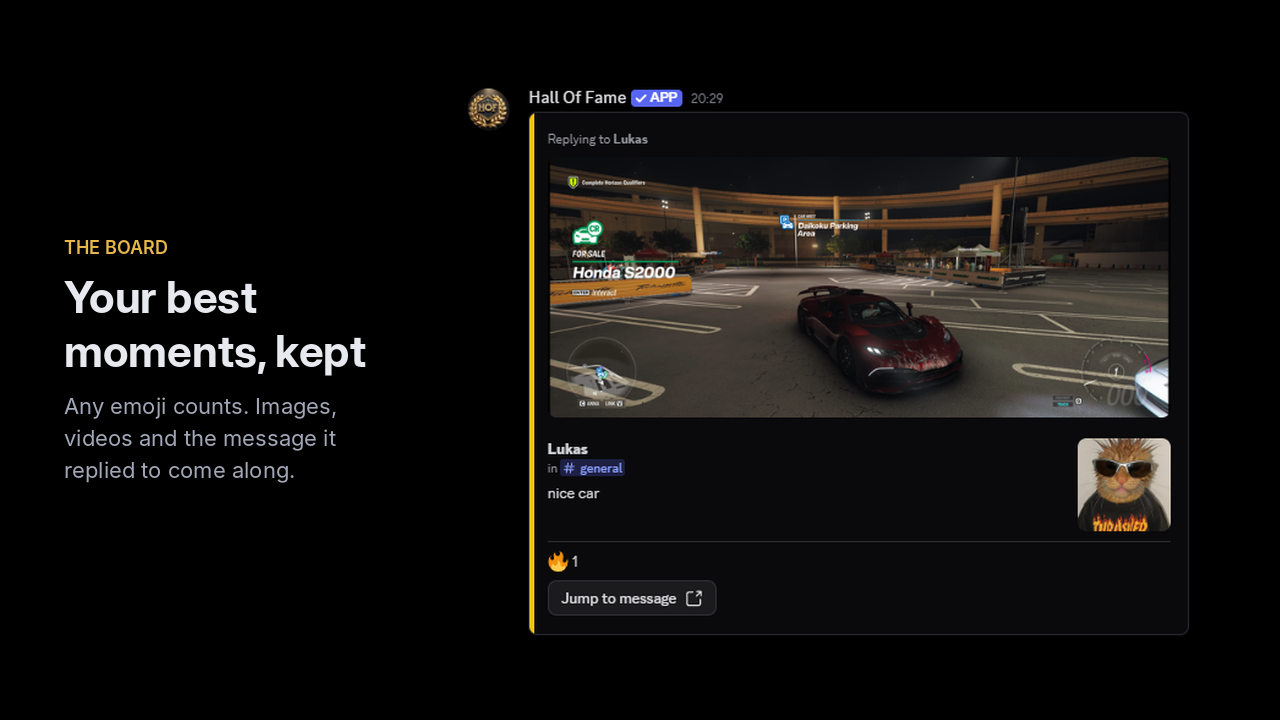
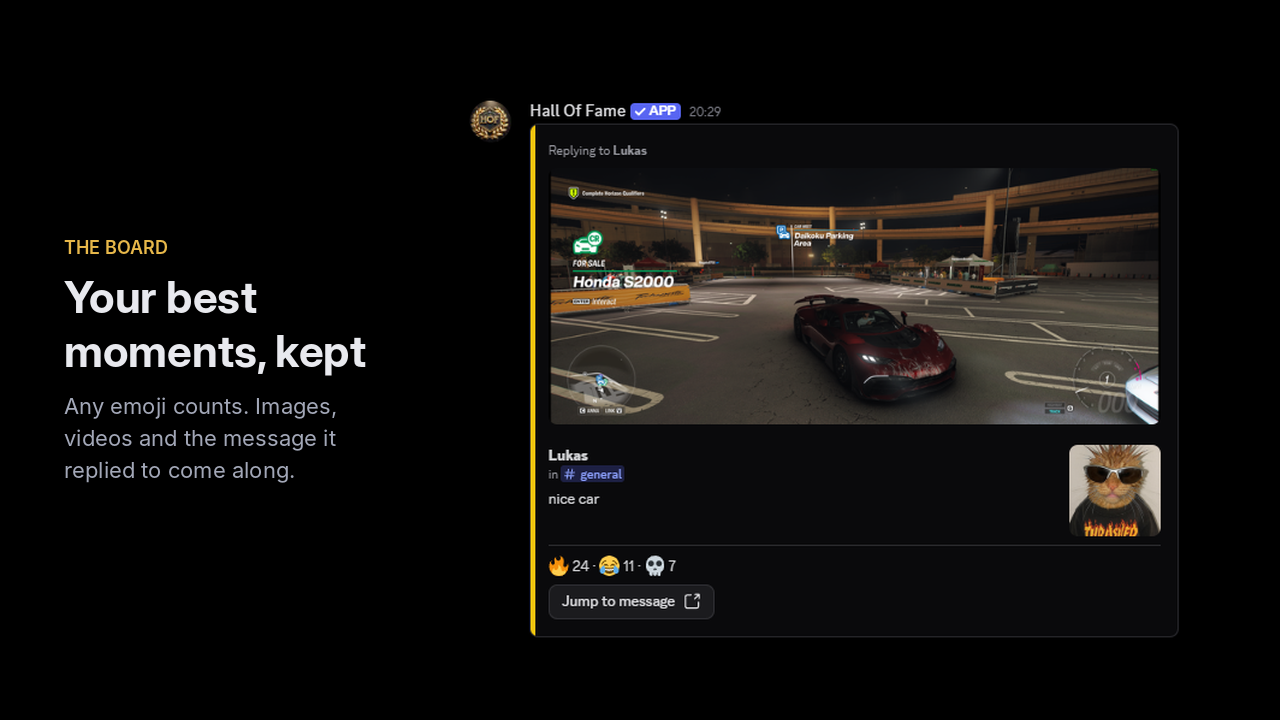
Use the board post with example reactions in the listing images
The post now shows three emoji instead of a single fire with one reaction, and the "(edited)" under
it is cropped out. The guide notes that its reaction line is example data, and nothing is left to
retake.

Claude-Session: https://claude.ai/code/session_01Pu1eX2p78U3mGnTfrx4Sgm

Changed region(s): [[0.3438, 0.1222, 0.9375, 0.8861]]

diff --git a/Assets/app_directory.md b/Assets/app_directory.md
@@ -144,11 +144,13 @@ How they are made, so they can be redone the same way when the layout changes:
 - The profile and leaderboard use example history: posts added to the development database only, and
   example names for members who have no Discord account. Nothing from a real server or member is shown
   apart from the developer's own account.
+- The board post's reaction line is example data too, set with a temporary override of `reactions_line`
+  in `src/board_post.py` that was never committed.
 - Each one is placed on a 1280×720 black canvas with a short caption on the left (Inter, the landing
   page's gold `#e8b84a` for the label), so the carousel shows them all at the same size.
 
 The leaderboard's "1 messages" is shown as "1 message", which is what the bot writes once its plural is
-fixed. Still to redo: the board post, which should have more than one reaction.
+fixed.
 
 <br>
 
